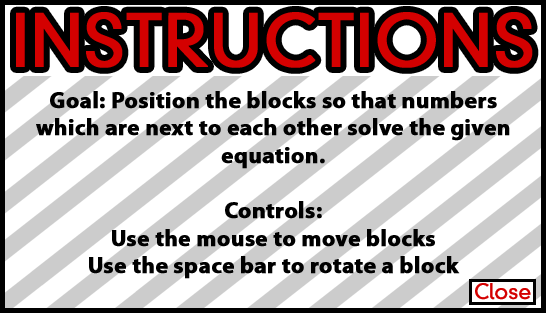
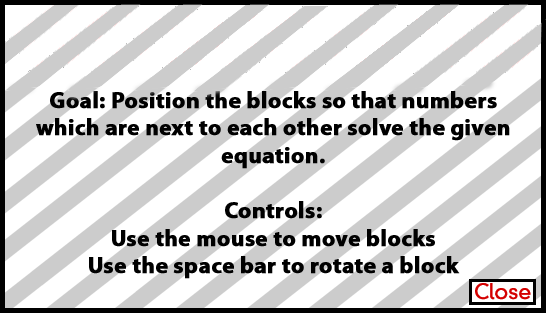
Added gameboy controls. Started changing Image text to font text for localization purposes.

Changed region(s): [[0.0, 0.0, 0.9963, 0.2875], [0.3736, 0.2875, 0.4048, 0.3163]]

diff --git a/blocku.py b/blocku.py
@@ -361,13 +361,20 @@ class Game:
         allGrid = [gridImg1,gridImg2,gridImg3,gridImg4,gridImg5,gridImg6,gridImg7,gridImg8,gridImg9]
 
 
+        
+        
+        #generate random number between 20 and 99 for the answer to equal
+        answer = random.randint(20, 99)
+        global debugText
+        debugText = 'Arrange blocks so that addition equals ' + str(answer)
+        #debugText = answerStr
+        #see if there is a sprite font
+        
+
         #main blocku code structs
         blocks = pygame.sprite.Group()
         Block.containers = blocks,spriteBatch
         #blocks are Block(n,s,e,w,x,y) xy= starting position
-        
-        #generate random number between 20 and 99 for the answer to equal
-        answer = random.randint(20, 99)
         #
         #
         #
@@ -412,23 +419,17 @@ class Game:
 
         #this next call is sort of like sprite batch . drawf
 
-        
-
-
         pygame.display.flip()
-        global debugText
-        debugText = 'Arrange blocks so that addition equals ' + str(answer)
-        #debugText = answerStr
-        #see if there is a sprite font
+        
+        #if a key is down
+        global keyDown
+
         cursor = mouseUpdate()
         if pygame.font:
             spriteBatch.add(Text(''))
             
             #spriteBatch.add(mainText())
         spriteBatch.add(cursor)
-
-        #if a key is down
-        global keyDown
         
         # it is important to note that like xna the origin is 0,0
         # the top left of the current window
@@ -457,17 +458,17 @@ class Game:
                 elif e.type == MOUSEBUTTONUP:
                     event.set_grab(0)
                 if e.type == KEYDOWN:
-                    if(e.key == K_SPACE):
+                    if(e.key == K_SPACE) or (e.key == K_KP3):
                         print'still down'
                         event.set_grab(1)
                 elif e.type == KEYUP:
-                    if(e.key == K_SPACE):
+                    if(e.key == K_SPACE) or (e.key == K_KP3):
                         print'going up'
                         event.set_grab(0)
 
             # get the state of the keyboard for input
             
-            if not keystate[K_SPACE]:
+            if not keystate[K_RETURN] or keystate[K_KP1]:
                 keyDown = False
             # Checks to see if the puzzle is solved
             if keystate[K_a]:
@@ -490,16 +491,16 @@ class Game:
 
             
             #pygame.event.get()
-            if keystate[K_LEFT]:
+            if keystate[K_LEFT] or keystate[K_KP4]:
                 cursor.move(3)
                 mousePossible = False
-            if keystate[K_RIGHT]:
+            if keystate[K_RIGHT] or keystate[K_KP6]:
                 cursor.move(1)
                 mousePossible = False
-            if keystate[K_UP]:
+            if keystate[K_UP] or keystate[K_KP8]:
                 cursor.move(0)
                 mousePossible = False
-            if keystate[K_DOWN]:
+            if keystate[K_DOWN] or keystate[K_KP2]:
                 cursor.move(2)
                 mousePossible = False
                 
@@ -509,7 +510,7 @@ class Game:
             
             for block in allBlocks:
                 #Block rotation when pressing enter
-                if block.isLast == 1 and keystate[K_RETURN] and not keyDown:
+                if block.isLast == 1 and (keystate[K_RETURN] or keystate[K_KP1]) and not keyDown:
                     block.rotate()
                     keyDown = True
                 isLast = block
@@ -536,11 +537,8 @@ class Game:
                     elif block.isMoving == True:
                         block.grab([cursor.rect.x, cursor.rect.y])
                 elif isRan == 1 and block.isLast == 1:
-                    #debugText = ''
-                    #block.left = 250
                     for piece in gridpos:
                         if cursor.rect.x > piece[0] and cursor.rect.x< piece[0]+72 and cursor.rect.y > piece[1] and cursor.rect.y< piece[1]+72 and block.isMoving == True:
-                            #debugText=str(piece)
                             place = piece[0] + 36, piece[1] + 36
                             isLast.grab(place)
                             isRan = 0
@@ -562,7 +560,7 @@ class Text(pygame.sprite.Sprite):
     def __init__(self,txt=''):
         pygame.sprite.Sprite.__init__(self)
         self.font = pygame.font.Font(None, 30)
-        self.font.set_italic(1)
+        #self.font.set_italic(1)
         self.color = Color('blue')
         self.update()
         self.rect = self.image.get_rect().move(55, 80)
@@ -618,17 +616,12 @@ class MainMenu():
 
 
         pygame.display.set_caption('Blocku')
-
-
         self.menuImg = load_image('bg.png')
         self.background = load_image('background.png')
         self.instImg = load_image('instructions.png')
 
         self.screen = pygame.display.set_mode((640,480))
         #self.screen.blit(self.menuImg,(0,0))
-
-
-
         #get the image and screen in the same format
         if self.background.get_bitsize() == 8:
             set_palette(self.background.get_palette())
@@ -636,6 +629,8 @@ class MainMenu():
             self.background.convert()
 
         screen.blit(self.menuImg, (0,0))
+        
+        self.addText()
         #new game button is at (248,175) and is 166*65 pixels
         #insturctions button is at (248, 254) and is 166*65 pixels
         #exit is at (248, 407) and is 166*65 pixels
@@ -643,7 +638,35 @@ class MainMenu():
 
         self.loop()
 
+    def addText(self):
+        if pygame.font:
+            font = pygame.font.Font(None, 34)
+
+            #Exit
+            exitt = font.render("Exit", 1, (255,255,255))
+            self.screen.blit(exitt,[300,430])
+
+            #instructions text itself
+            if self.instBool == True:
+                newFont = pygame.font.Font(None, 100)
+                instTitle = newFont.render("Instructions", 1, (255,0,0))
+                self.screen.blit(instTitle,[120,68])
+                
+            else:
+                #New Game
+                new = font.render("New Game", 1, (255, 255, 255))
+                self.screen.blit(new, [270,195])
+
+                #Game Modes
+                gMode = font.render("Game Modes", 1, (255,255,255))
+                self.screen.blit(gMode,[255,350])
+
+                #Instructions
+                instructs = font.render("Instructions", 1, (255,255,255))
+                self.screen.blit(instructs,[260,275])
+
     def loop(self):
+                
         exit = False
         while not exit:
             for event in pygame.event.get():
@@ -656,18 +679,21 @@ class MainMenu():
                             game.run()
                             pygame.quit()
 
-                        #insturctions. need to change to show insturctions dialog box or whatever
+                        #insturctions
                         if event.pos[0] > 248 and event.pos[0] < 414 and event.pos[1] > 254 and event.pos[1] < 319 and self.instBool == False:
                             #pygame.display.flip()
                             self.instBool = True
                             self.screen.blit(self.instImg, (58,58))
+                            self.addText()
                             pygame.display.flip()
 
                         #close insturctions button
                         if event.pos[0] > 526 and event.pos[0] < 587 and event.pos[1] > 336 and event.pos[1] < 365 and self.instBool == True:
                             self.screen.blit(self.menuImg, (0,0))
-                            pygame.display.flip()
                             self.instBool = False
+                            self.addText()
+                            pygame.display.flip()
+                            
 
                         #exit button. exits the game
                         if event.pos[0] > 248 and event.pos[0] < 414 and event.pos[1] > 407 and event.pos[1] < 472 and self.instBool == False:
